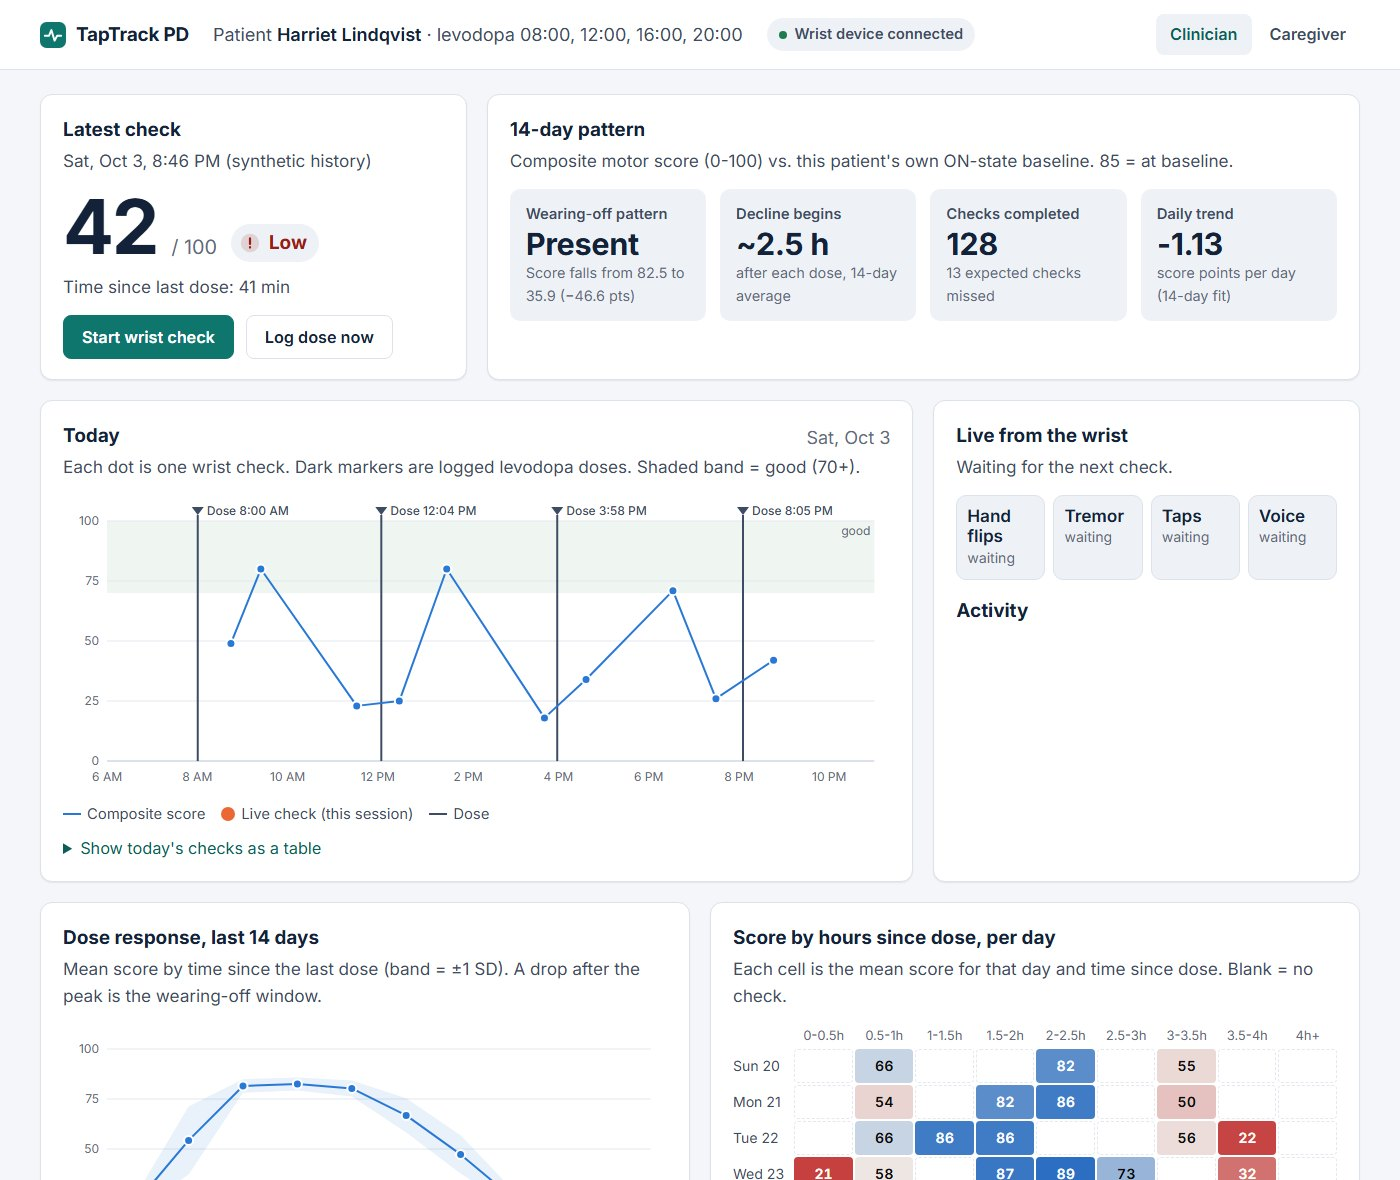
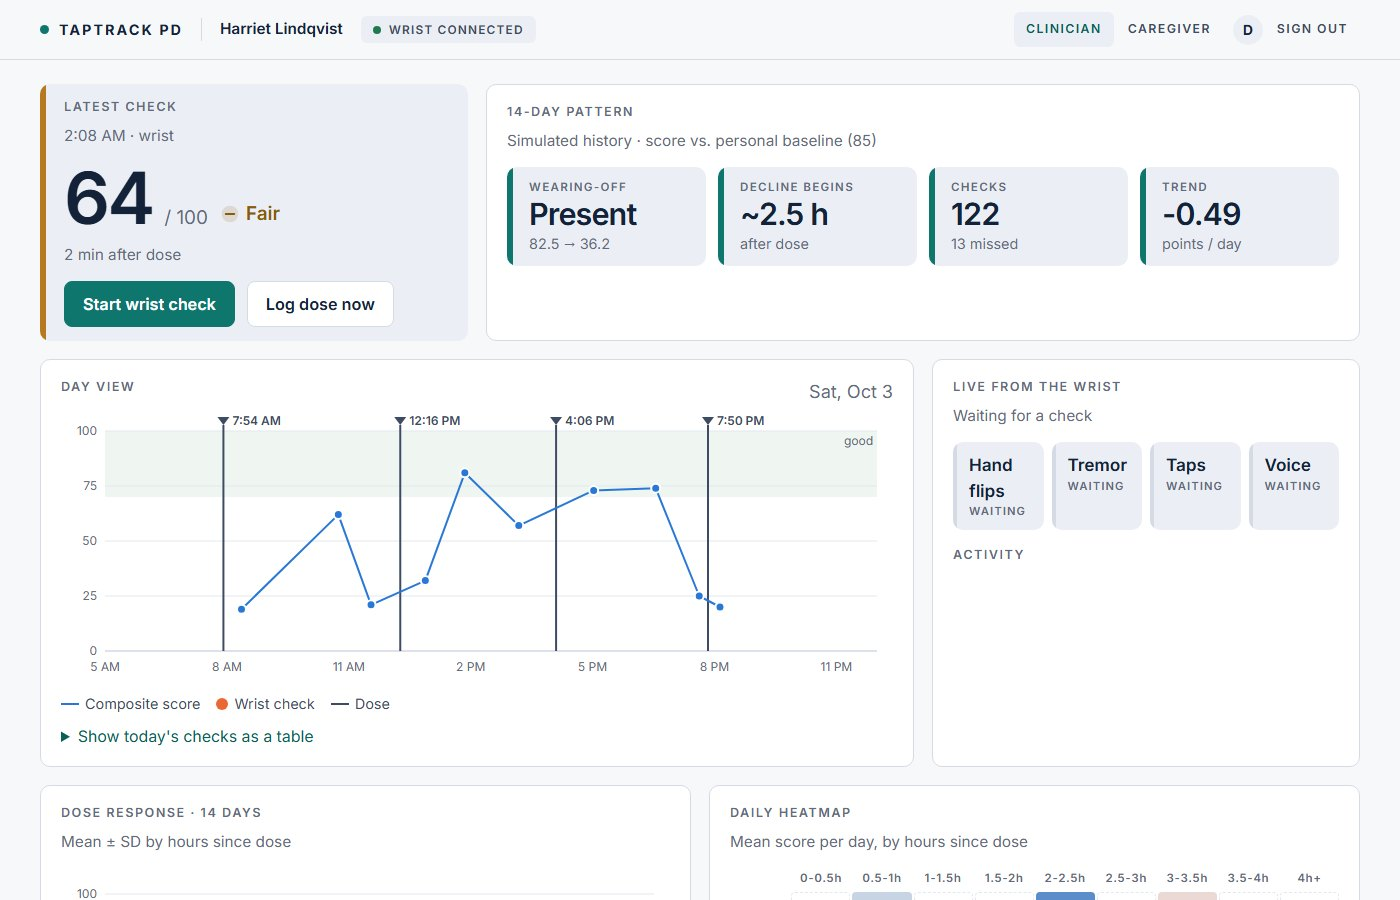
Website: accurate claims, real main screen, simulated-patient wording, demo video slot, footer links (source, agent profile), no localhost links

diff --git a/docs/index.html b/docs/index.html
@@ -95,6 +95,13 @@
     .talk q { color: var(--ink); font-weight: 600; }
     .talk .actions { margin-top: 0; flex-wrap: nowrap; }
     @media (max-width: 760px) { .talk { grid-template-columns: 1fr; } .talk .actions { flex-wrap: wrap; } }
+    .video-slot { position: relative; margin-top: 18px; border-radius: 12px; overflow: hidden; border: 1px solid var(--rule); background: var(--panel); aspect-ratio: 16 / 9; }
+    .video-slot video { width: 100%; height: 100%; display: block; background: #0E1522; }
+    .video-slot video[hidden], .video-placeholder[hidden] { display: none; }
+    .video-placeholder { position: absolute; inset: 0; display: grid; place-content: center; text-align: center; gap: 6px; }
+    .video-placeholder p { margin: 0; color: var(--muted); }
+    footer .links { margin-top: 8px; display: flex; gap: 16px; justify-content: center; flex-wrap: wrap; }
+    footer .links a { color: var(--ink-2); font-size: .85rem; }
     footer { padding: 26px 0 40px; text-align: center; color: var(--muted); font-size: .9rem; }
     footer .wrap { border-top: 1px solid var(--rule); padding-top: 24px; }
     footer strong { color: var(--ink); display: block; font-size: 1.05rem; margin-bottom: 6px; font-weight: 600; }
@@ -114,7 +121,7 @@
       <a class="hide-sm" href="#how">How it works</a>
       <a class="hide-sm" href="#clinic">Clinicians</a>
       <a class="hide-sm" href="#talk">Care agent</a>
-      <a class="signin" href="http://127.0.0.1:8000/login">Sign in</a>
+      <a class="signin" href="#video">Demo</a>
     </nav>
   </div>
 </header>
@@ -125,15 +132,15 @@
       <p class="kicker caps">For Parkinson's care</p>
       <h1>Parkinson's changes hour&nbsp;by&nbsp;hour.</h1>
       <p class="tagline">Neurologists see it a few times a year. TapTrack PD shows them the hours they're missing.</p>
-      <p class="lede">A one-minute check on the wrist, several times a day, tagged with the time since the last levodopa dose.</p>
+      <p class="lede">A short check on the wrist, several times a day, tagged with the time since the last levodopa dose.</p>
       <div class="actions">
-        <a class="btn primary" href="http://127.0.0.1:8000/login">Sign in to the app</a>
-        <a class="btn" href="#clinic">See the dashboard</a>
+        <a class="btn primary" href="#video">Watch the demo</a>
+        <a class="btn" href="#talk">Talk to the care agent</a>
       </div>
     </div>
     <div class="device" aria-label="Screens on the wrist device">
       <div class="screens">
-        <figure style="margin:0"><img src="img/wrist_home_g.png" alt="Wrist home screen: Last check, Good" width="640" height="480"><figcaption>Home</figcaption></figure>
+        <figure style="margin:0"><img src="img/wrist_home_n.png" alt="Wrist main screen: Ready, press Check to start" width="640" height="480"><figcaption>Main screen</figcaption></figure>
         <figure style="margin:0"><img src="img/wrist_flip.png" alt="Wrist test screen: Flip your hand, test 1 of 4" width="640" height="480"><figcaption>Test 1 of 4</figcaption></figure>
         <figure style="margin:0"><img src="img/wrist_taps.png" alt="Wrist test screen: Tap yellow, then green" width="640" height="480"><figcaption>Test 3 of 4</figcaption></figure>
         <figure style="margin:0"><img src="img/wrist_res_r.png" alt="Wrist result screen: Much lower, care team notified" width="640" height="480"><figcaption>Result</figcaption></figure>
@@ -150,16 +157,32 @@
 
   <section id="problem" style="padding-top:12px">
     <div class="wrap grid3">
-      <div class="panel low"><span class="caps">The problem</span><div class="big">4× a day</div><p>Typical levodopa dosing. Each dose wears off before the next one.</p></div>
-      <div class="panel fair"><span class="caps">Today</span><div class="big">2-4 visits</div><p>A year with the neurologist, adjusting timing from memory.</p></div>
-      <div class="panel good"><span class="caps">TapTrack PD</span><div class="big">1 minute</div><p>Per check on the wrist: flips, tremor, taps, voice.</p></div>
+      <div class="panel low"><span class="caps">The problem</span><div class="big">3–5 doses</div><p>Levodopa is often taken several times a day, and each dose can wear off before the next.</p></div>
+      <div class="panel fair"><span class="caps">Today</span><div class="big">A few visits</div><p>A year with the neurologist, adjusting dose timing from what patients remember.</p></div>
+      <div class="panel good"><span class="caps">TapTrack PD</span><div class="big">~1 minute</div><p>Per check on the wrist: hand flips, tremor, taps and voice, guided by voice prompts.</p></div>
+    </div>
+  </section>
+
+  <section id="video" style="padding-top:8px">
+    <div class="wrap">
+      <p class="kicker caps">Demo</p>
+      <h2>See it in action</h2>
+      <div class="video-slot">
+        <video id="demo-video" controls preload="metadata" playsinline poster="img/dashboard.jpg" hidden>
+          <source src="media/demo.mp4" type="video/mp4">
+        </video>
+        <div class="video-placeholder" id="video-placeholder">
+          <span class="caps">Demo video</span>
+          <p>The walkthrough video will appear here.</p>
+        </div>
+      </div>
     </div>
   </section>
 
   <section id="how">
     <div class="wrap">
       <p class="kicker caps">How it works</p>
-      <h2>Wear it all day, dock at night, like a Holter monitor.</h2>
+      <h2>Designed to be worn through the day and docked to sync, like a Holter monitor.</h2>
       <div class="grid4" style="margin-top:22px">
         <div class="panel step blue"><div class="top"><span class="caps">Step 1 of 4</span><span class="caps">Meds</span></div><h3>Log the dose</h3><p>Press red when you take your medicine. Every later check knows how long it has been.</p></div>
         <div class="panel step"><div class="top"><span class="caps">Step 2 of 4</span><span class="caps">Check</span></div><h3>Do the check</h3><p>Press blue. The wrist speaks each step: hand flips, holding still, alternating taps, a steady "ahhh".</p></div>
@@ -183,7 +206,7 @@
     <div class="wrap">
       <p class="kicker caps">For clinicians</p>
       <h2>Wearing-off, visible at a glance.</h2>
-      <p class="lede">Every result is tagged with time since dose. In this example, scores peak 1 to 2.5 hours after a dose and fall about 45 points by 3 to 4 hours: the wearing-off window, measured instead of remembered. One click writes a visit report for the neurologist and a plain-language summary for the patient. Patterns only, never dose advice.</p>
+      <p class="lede">Every result is tagged with time since dose. In the simulated example patient, scores peak 1 to 2.5 hours after a dose and fall about 45 points by 3 to 4 hours: the wearing-off window, measured instead of remembered. One click writes a visit report for the neurologist and a plain-language summary for the patient. Patterns only, never dose advice.</p>
       <div class="shot"><img src="img/dashboard.jpg" alt="Clinician dashboard: latest check, 14-day pattern, today's scores with dose markers, dose-response curve and heatmap by hours since dose" width="1400" height="1180" loading="lazy"></div>
       <div class="grid3" style="margin-top:14px">
         <div class="panel"><span class="caps">14 days</span><h3>Dose-response curve</h3><p>Mean score by hours since the last dose, with spread.</p></div>
@@ -198,13 +221,13 @@
       <div>
         <p class="kicker caps">Care agent</p>
         <h2>It acts on the pattern, not just shows it.</h2>
-        <p>A care agent watches every check. When a result comes back much lower than usual, it texts the caregiver. When a check is missed, it nudges the patient. When a wearing-off pattern appears, it sends the visit report to the clinic and asks for a follow-up. Caregivers can text back any time to ask how the day is going.</p>
+        <p>A care agent watches every check. When a result comes back much lower than usual, it texts the caregiver. When a check is missed, it nudges the patient. When a wearing-off pattern appears, it sends the visit report to the clinic's scheduling agent and asks for a follow-up. Caregivers can text back any time to ask how the day is going.</p>
       </div>
       <div class="device" aria-label="Example iMessage conversation">
         <div class="msg">TapTrack alert: Harriet's 2:41 PM check was much lower than usual (score 38; usual is about 85). It was 3 h 10 min after the last dose. Reply 'today' for a summary.</div>
         <div class="msg me">today</div>
-        <div class="msg">Today: 6 checks, average 52. Lowest was 38 at 2:41 PM, 3 h 10 min after the last dose. 3 doses logged, 1 check missed.</div>
-        <div class="msg">TapTrack sent Harriet's 14-day visit report to Dr. Patel and requested a follow-up visit. Proposed follow-up: Tue Oct 6, 10:30 AM.</div>
+        <div class="msg">Today: 6 checks, average 52. Latest at 2:41 PM was much lower than usual (38). Lowest was 38 at 2:41 PM, 3 h 10 min after the last dose. 3 doses logged, 1 check missed.</div>
+        <div class="msg">TapTrack sent Harriet's 14-day visit report to Dr. Patel (Movement Disorders Clinic) and requested a follow-up visit. Proposed follow-up: Tue Oct 6, 10:30 AM.</div>
       </div>
     </div>
   </section>
@@ -230,7 +253,7 @@
       <div class="panel good" style="text-align:center;padding:36px 28px">
         <span class="caps">TapTrack PD</span>
         <h2 style="margin:8px auto 18px;max-width:22em">The hours between visits, in front of the neurologist.</h2>
-        <div class="actions" style="justify-content:center;margin-top:0"><a class="btn primary" href="http://127.0.0.1:8000/login">Sign in</a><a class="btn" href="#how">How it works</a></div>
+        <div class="actions" style="justify-content:center;margin-top:0"><a class="btn primary" href="#video">Watch the demo</a><a class="btn" href="#how">How it works</a></div>
       </div>
     </div>
   </section>
@@ -239,8 +262,17 @@
 <footer>
   <div class="wrap">
     <strong>Decision support for clinicians. Not a diagnostic device.</strong>
-    Example data shown is fictional. Never change medication without talking to your care team.
+    Example patient data is synthetic. Never change medication without talking to your care team.
+    <div class="links"><a href="https://github.com/ahansoty/taptrack-pd" target="_blank" rel="noopener">Source code</a><a href="https://agentverse.ai/agents/details/agent1q0m06w5n433l7wlefgjw5pmvu0eweuepj3trmgp926wwn7wykjefs3pj0n2/profile" target="_blank" rel="noopener">Agent profile</a><a href="#talk">Care agent chat</a></div>
   </div>
 </footer>
+<script>
+  // show the demo video once media/demo.mp4 exists; otherwise keep the placeholder
+  (function () {
+    var v = document.getElementById("demo-video"), ph = document.getElementById("video-placeholder");
+    v.addEventListener("loadedmetadata", function () { v.hidden = false; ph.hidden = true; });
+    v.load();
+  })();
+</script>
 </body>
 </html>

diff --git a/tests/test_pipeline.py b/tests/test_pipeline.py
@@ -154,8 +154,10 @@ def test_watch_flow_main_result_hold_and_dismiss(store, monkeypatch):
     dev.open()
     b._attach(dev)
     assert b._desired_home() == "home_n"
-    b.run_check()
+    row = b.run_check()
     shown = [l for l in dev.log if l.startswith("image:") or l.startswith("screen:")]
+    # the wrist's result screen matches the level the dashboard receives
+    assert b._home_override[0] == {"good": "res_g", "fair": "res_y", "low": "res_r"}[row["level"]]
     assert "calc" in " ".join(shown)
     assert b._home_override and b._home_override[0].startswith("res_")
     assert b._home_override[1] - _t.time() > 50          # held ~60 s
